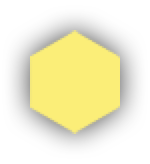
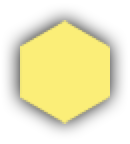
[➠] Optimized images. [✔] Bugfixing.

Changed region(s): [[0.0615, 0.0833, 0.9231, 0.8889]]

diff --git a/public/stylesheets/bundle/contour/common/theatre/stage/sections/_what_we_do.css.sass b/public/stylesheets/bundle/contour/common/theatre/stage/sections/_what_we_do.css.sass
@@ -28,12 +28,12 @@
       text-align: center
 
       .header
-        background: transparent image-url('bundle/contour/common/theatre/stage/sections/what_we_do/hub/header/background.png') no-repeat center top
+        background: transparent image-url('bundle/contour/common/theatre/stage/sections/what_we_do/hub/header/background.png') no-repeat center rem(10)
         padding: rem(80) 0 rem(20)
 
         @include hidpi
           background-image: image-url('bundle/contour/common/theatre/stage/sections/what_we_do/hub/header/background_at_2x.png')
-          background-size: 75px 82px
+          background-size: 65px 72px
 
         h1
           text-transform: uppercase
